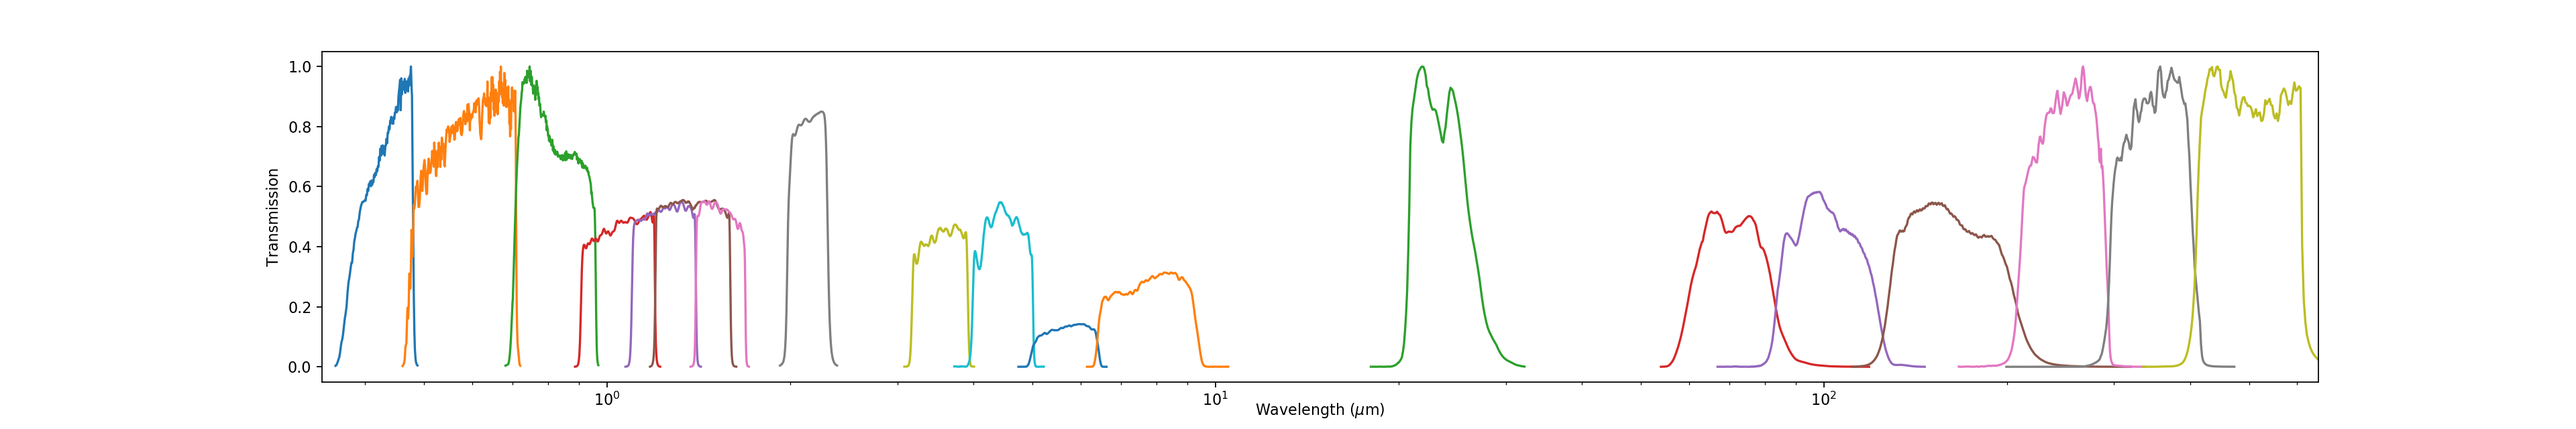
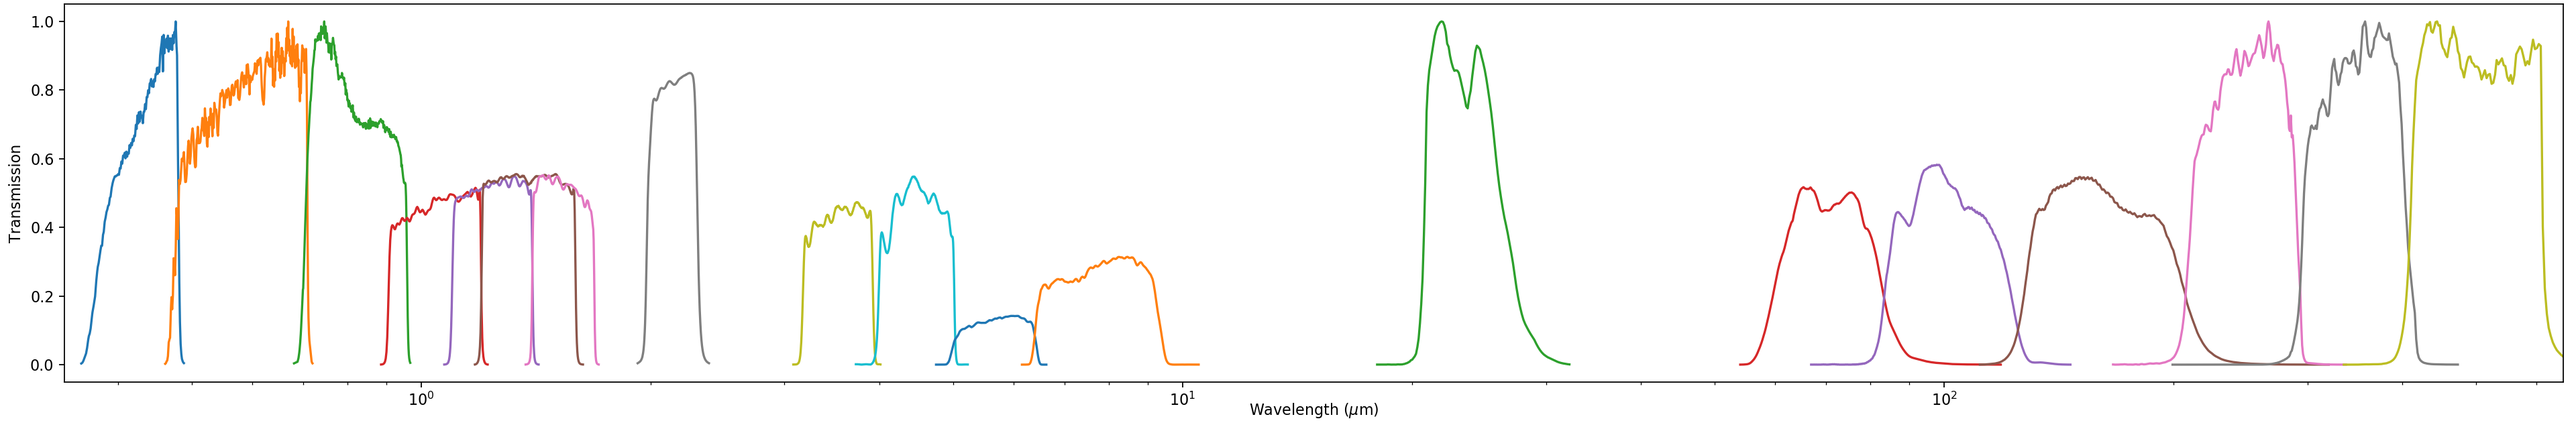
Update on filter plots

diff --git a/Filters/plot_filters.py b/Filters/plot_filters.py
@@ -17,6 +17,8 @@ for filename in os.listdir(directory):
 
 fig = figure(num=None, figsize=(24, 4), dpi=72, facecolor='w', edgecolor='k')
 
+plt.subplots_adjust(top=0.99,bottom=0.11,left=0.025,right=0.995,hspace=0.2,wspace=0.2)
+
 for F in filters:
     x,y = np.loadtxt(F,usecols=(0,1),unpack=True)
     x = x*0.0001
